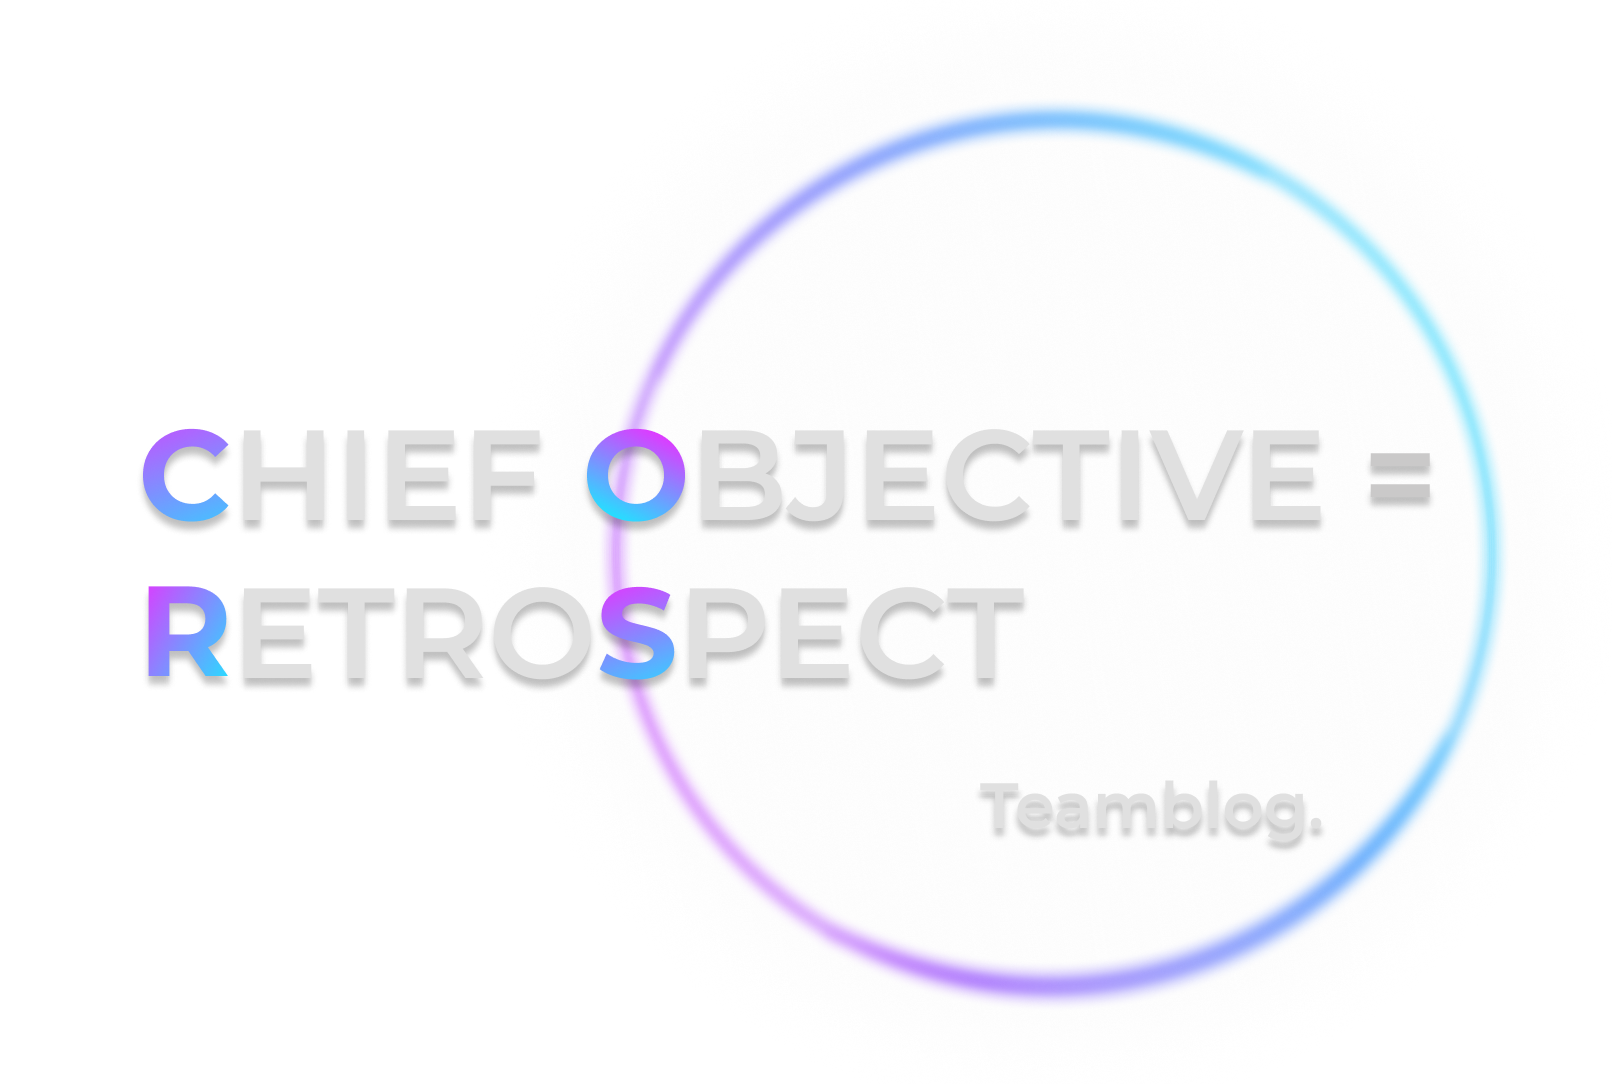
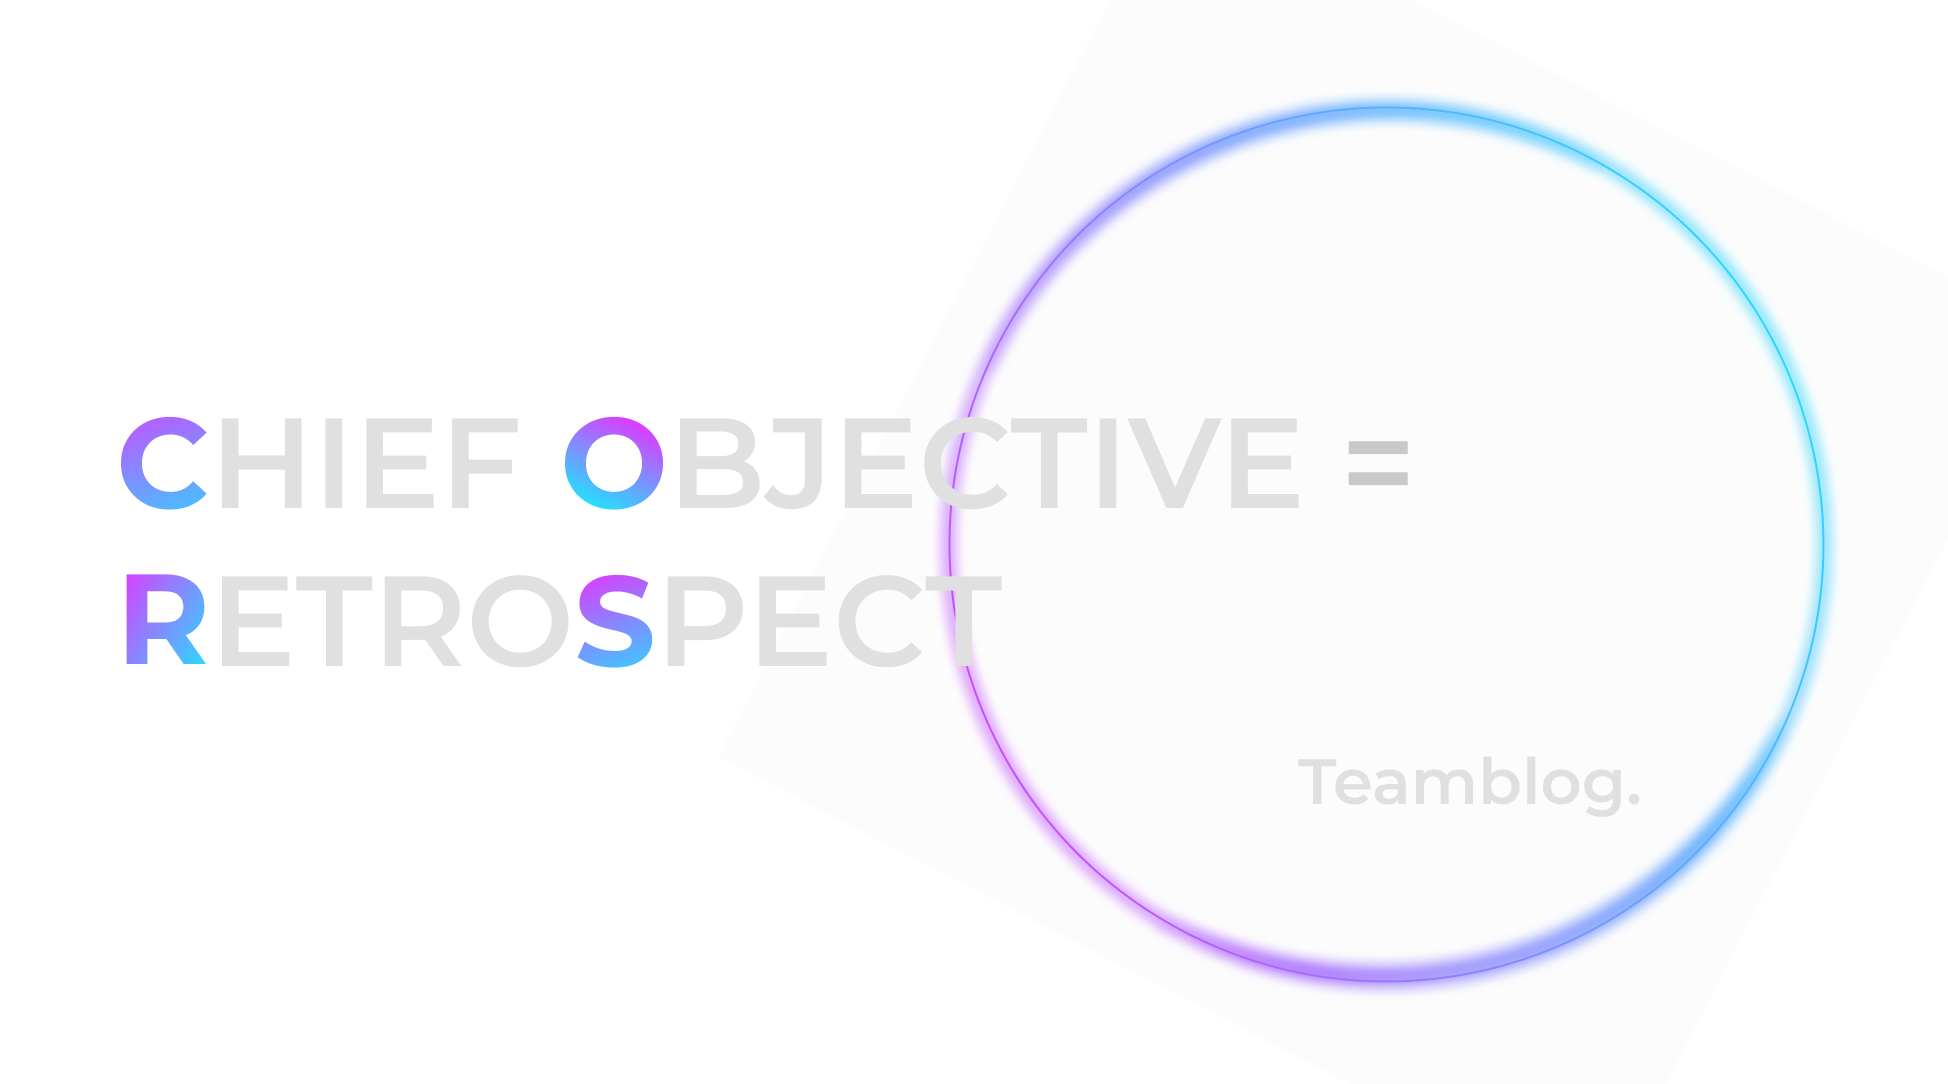
feat: Fix about page css & image (#4)

Changed region(s): [[0.062, 0.0913, 0.9615, 0.9437]]

diff --git a/src/templates/about-template.js b/src/templates/about-template.js
@@ -33,12 +33,8 @@ const AboutWrapper = styled.div`
   height: 100%;
   padding-top: var(--size-600);
 
-  h2 {
-    font-family: "SUIT-ExtraBold";
-    background: linear-gradient(135deg, #e335ff 10.38%, #0ff 104.83%);
-    background-clip: text;
-    -webkit-background-clip: text;
-    -webkit-text-fill-color: transparent;
+  h1 {
+    font-family: "Montserrat-Bold";
   }
 
   @media screen and (max-width: 1000px) {
@@ -76,12 +72,12 @@ export const pageQuery = graphql`
         title
         profile_image_light {
           childImageSharp {
-            gatsbyImageData(placeholder: BLURRED, formats: PNG, height: 400)
+            gatsbyImageData(placeholder: BLURRED, formats: PNG, height: 800)
           }
         }
         profile_image_dark {
           childImageSharp {
-            gatsbyImageData(placeholder: BLURRED, formats: PNG, height: 400)
+            gatsbyImageData(placeholder: BLURRED, formats: PNG, height: 800)
           }
         }
       }

diff --git a/content/pages/about.md b/content/pages/about.md
@@ -5,8 +5,11 @@ profile_image_light: ../../static/media/profile-medium-light.png
 profile_image_dark: ../../static/media/profile-medium-dark.png
 ---
 
-## Hi, We're Team CORS
+<h1>We're Team</h1>
+<h1>CORS</h1>
 
-GDSC SWU 1기 출신의 백엔드 개발자 4명이 모여 시작된 우리 팀은 기술 스터디와 프로젝트를 통해 함께 성장하고 있습니다.
-우리는 회고와 개선을 중시하며 고민이 담긴 코드를 지향합니다.
+<p>
+GDSC SWU 1기 출신의 백엔드 개발자 4명이 모여 시작된 우리 팀은 기술 스터디와 프로젝트를 통해 함께 성장하고 있습니다.<br><br>
+우리는 <b>회고</b>와 <b>개선</b>을 중시하며 고민이 담긴 코드를 지향합니다.<br>
 그 과정과 결과를 블로그에 담아 우리 팀의 지식과 경험을 나누고자 합니다.
+</p>
